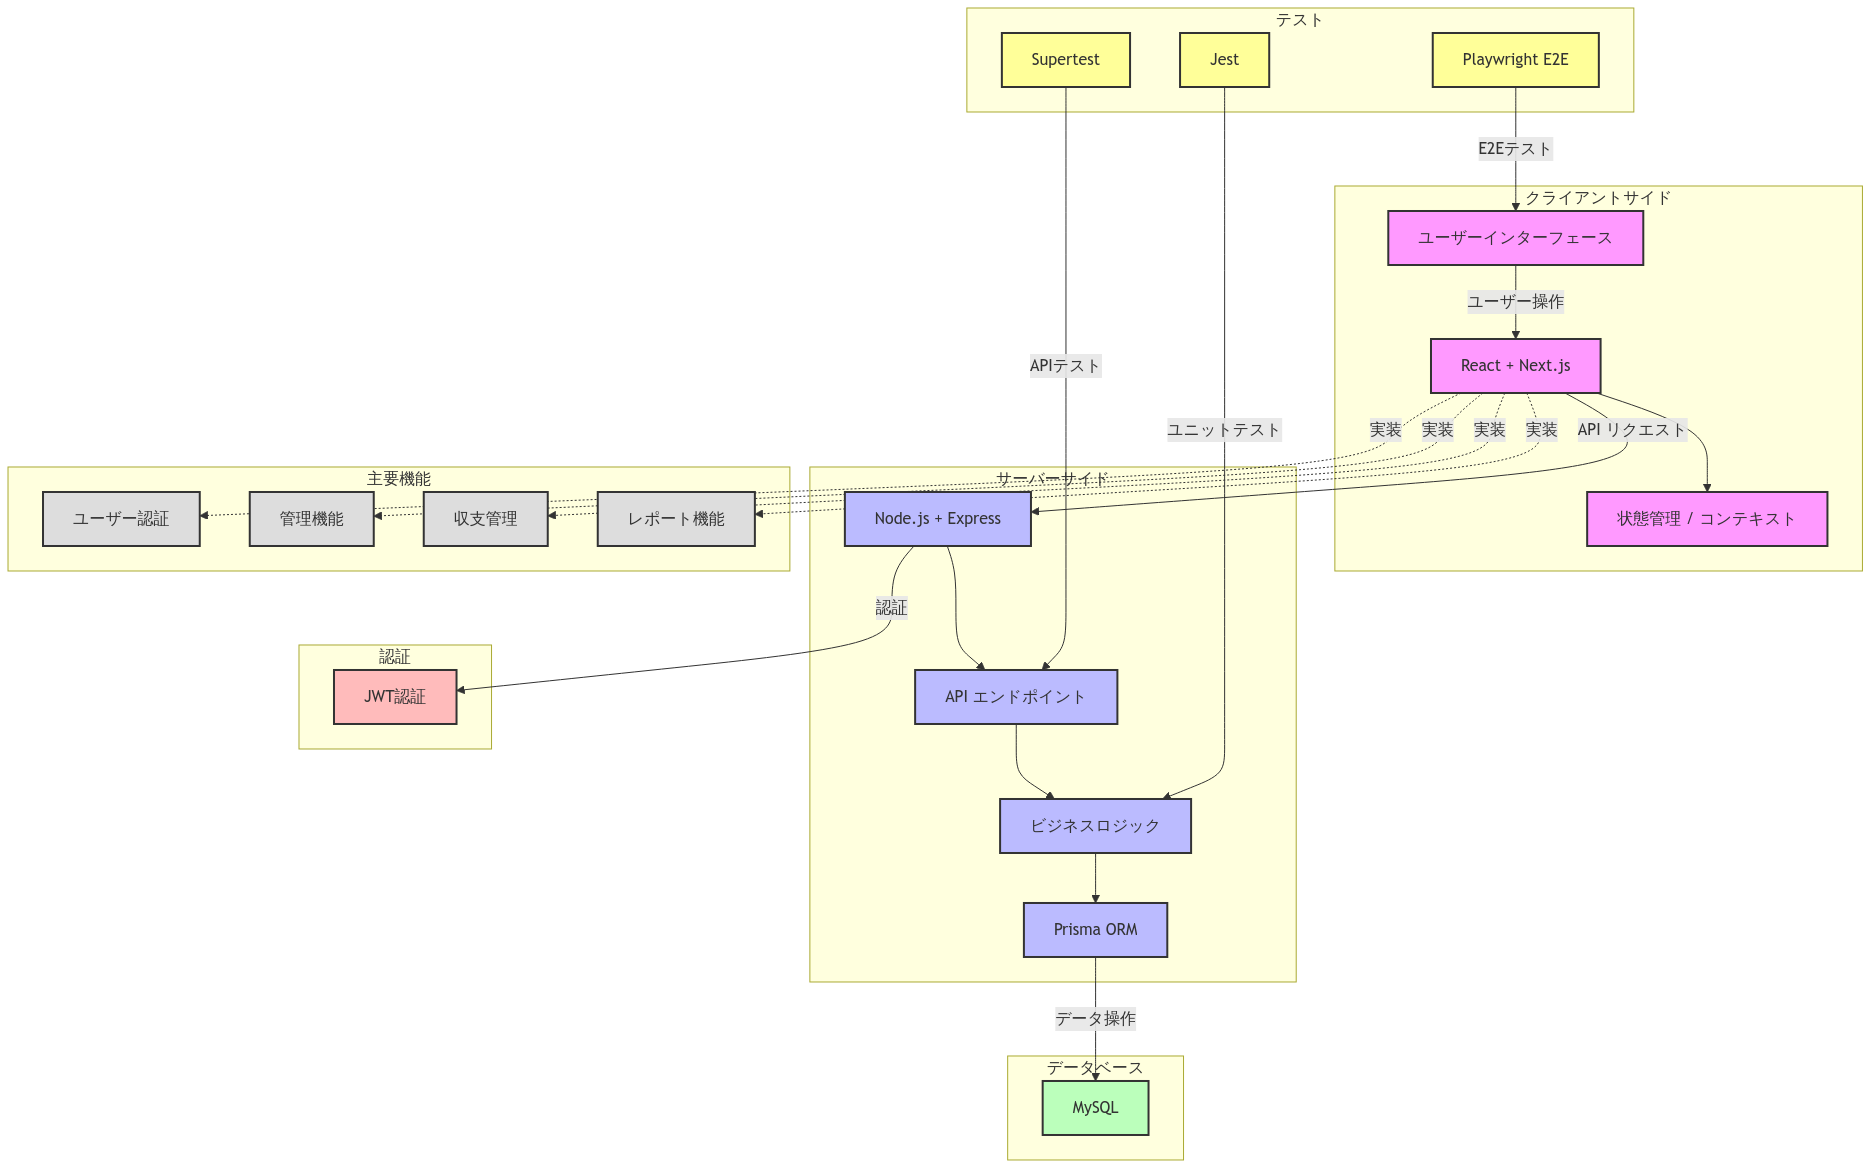
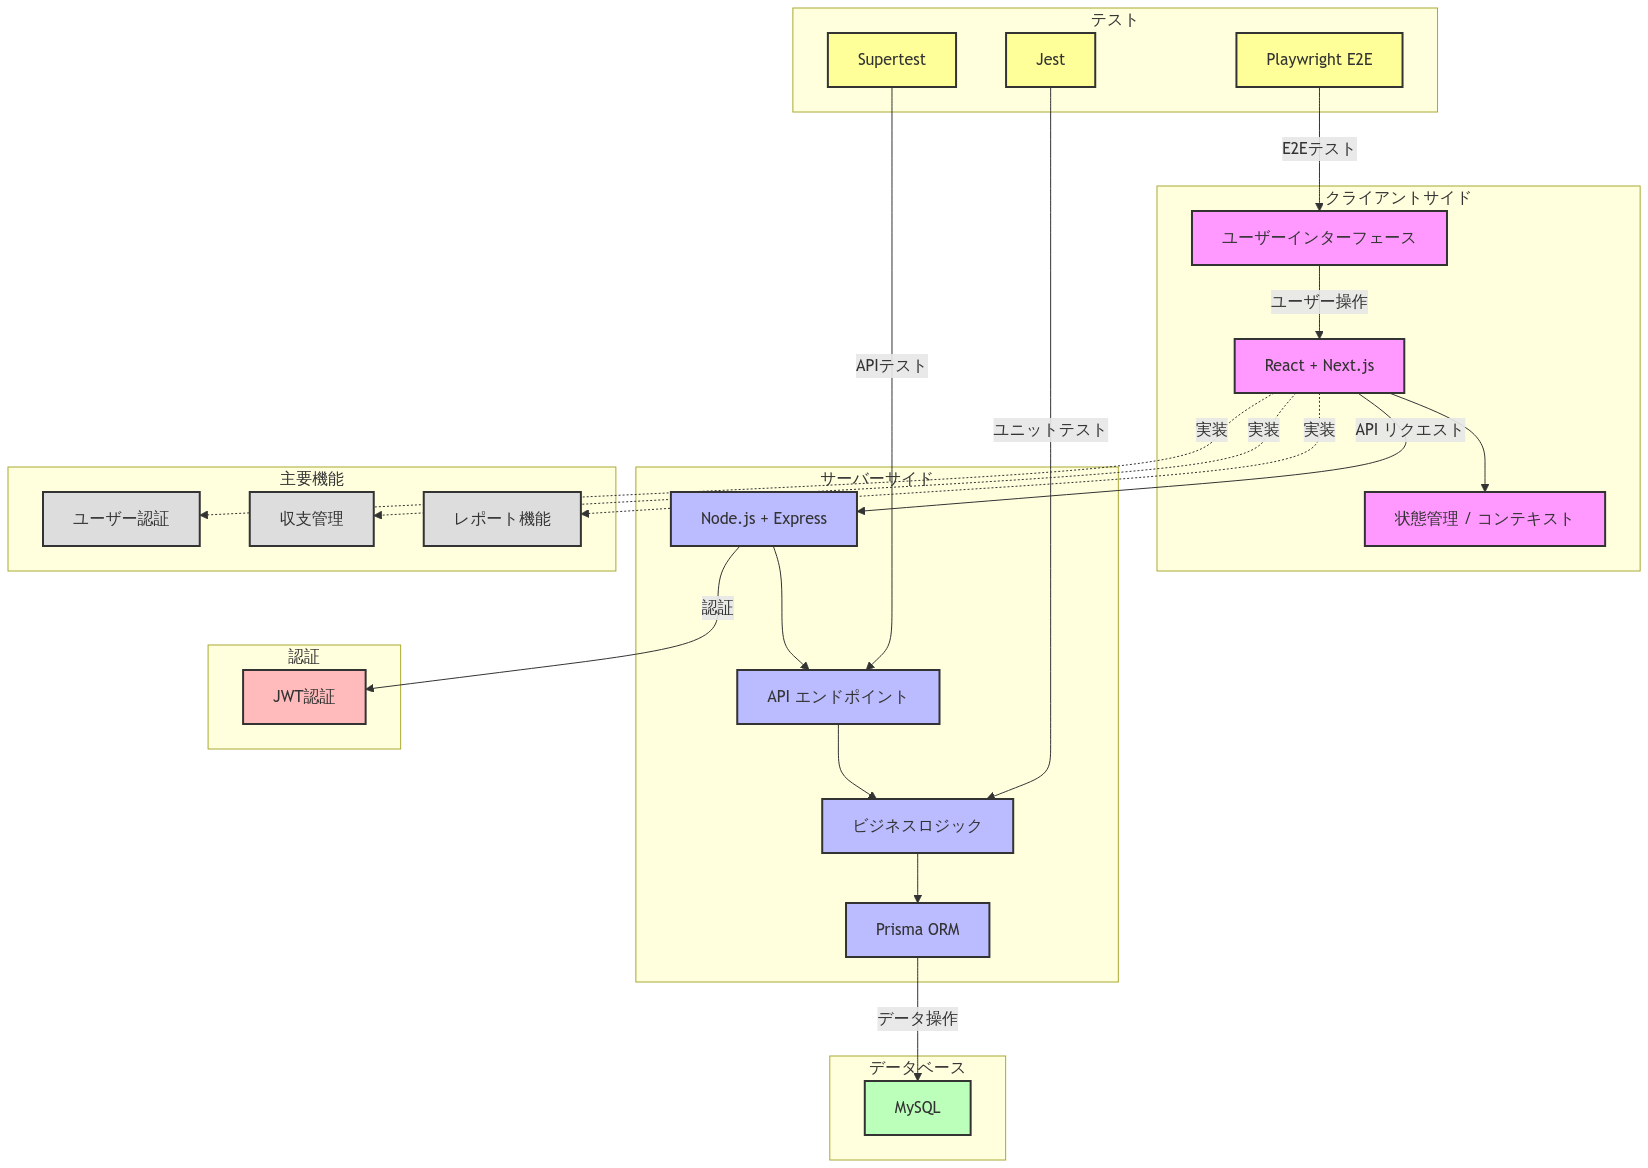
画面一覧と画面遷移図

diff --git a/docs/DetailedDesign/SystemOverview.md b/docs/DetailedDesign/SystemOverview.md
@@ -5,7 +5,6 @@
 フルスタックアプリケーションを目指しました。
 ### 主要機能
 - ユーザー認証:ログイン、ログアウト機能
-- 管理機能:ユーザー登録のほか、入力画面標示項目の追加訂正
 - 収支管理:収入と支出の記録、詳細（更新削除）
 - レポート機能:月次、年次の収支レポート、グラフ表示（円グラフ、棒グラフなど）
 ### 全体アーキテクチャ図

diff --git a/docs/BasicDesign/dbDefinition.md b/docs/BasicDesign/dbDefinition.md
@@ -29,6 +29,7 @@
 | カラム名 | データ型 | 制約 | 説明 |
 |----------|----------|------|------|
 | id | integer | PRIMARY KEY | カテゴリーの一意識別子 |
+| payment_id | integer | FOREIGN KEY (payment.id) ON DELETE RESTRICT ON UPDATE CASCADE | 支払いID |
 | contents | varchar(100) | NOT NULL | カテゴリー内容 |
 
 ## 4. payment テーブル
